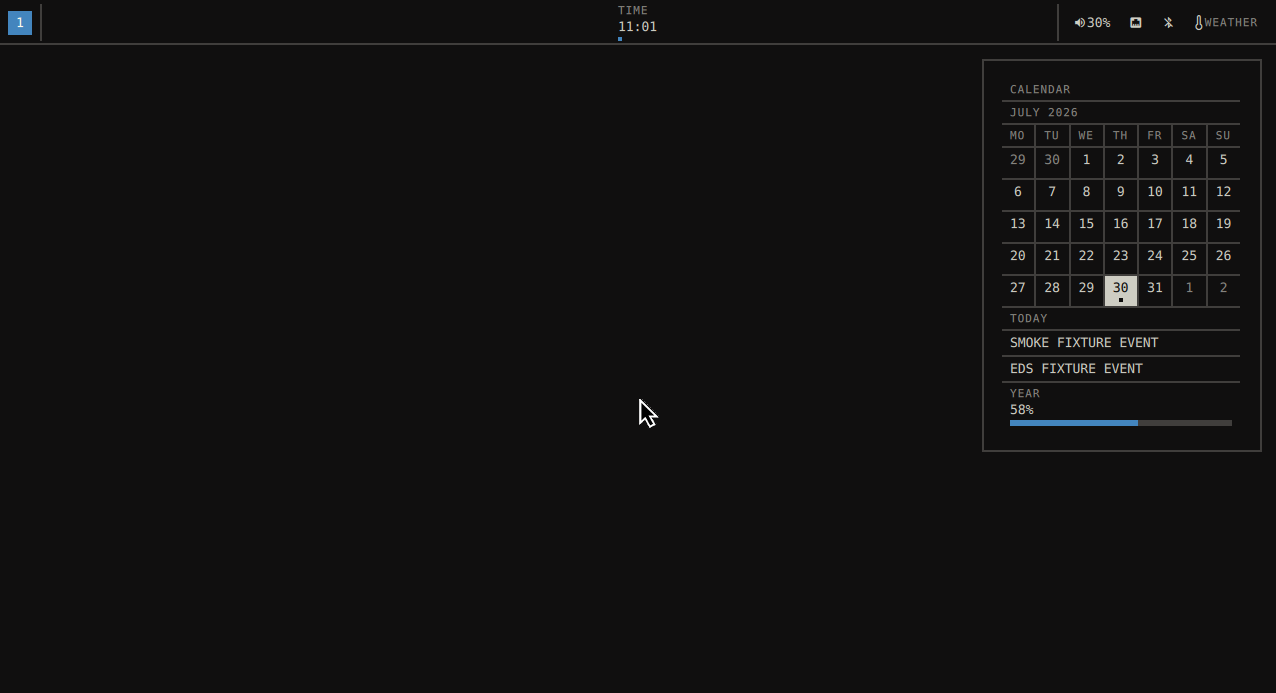
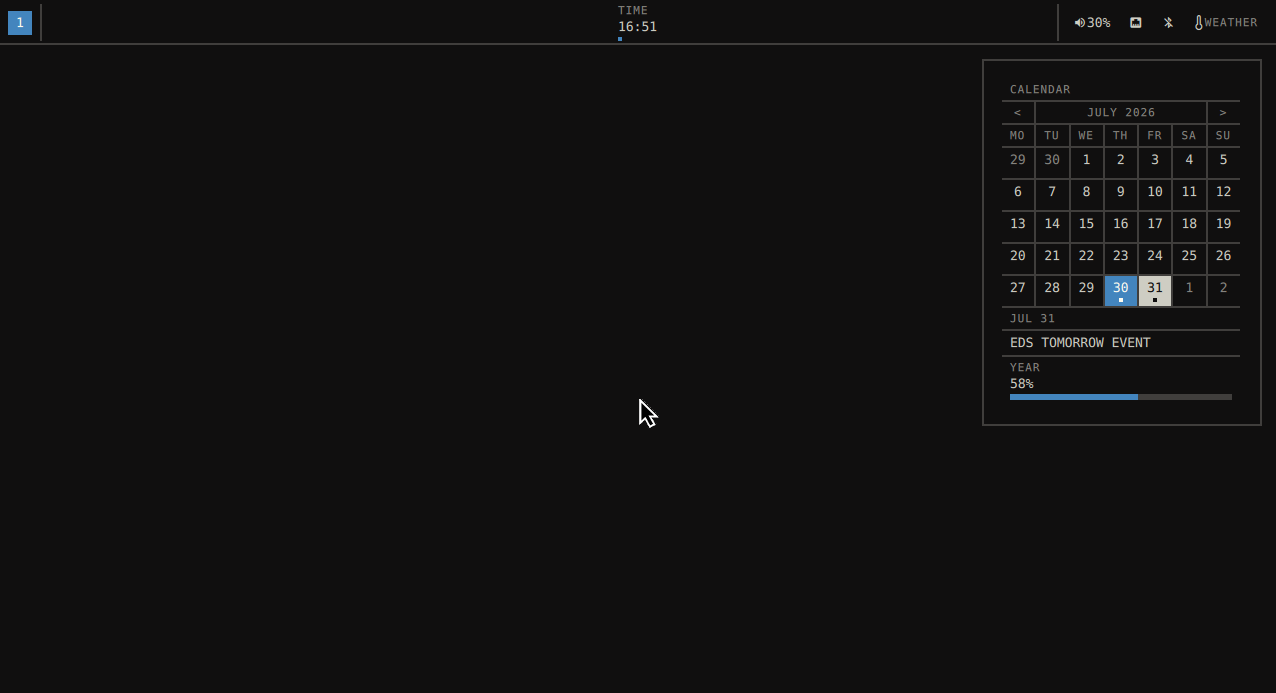
docs: cover m13 surfaces in usage/switchover and recapture screenshots

diff --git a/docs/USAGE.md b/docs/USAGE.md
@@ -68,11 +68,20 @@ with a console warning — never a crash.
   the exact same engine access as any built-in widget (`qs.Core`,
   `qs.Services`, `Process`, …). It is not a runtime sandbox.
 
+**Workspaces** — one cell per *visible* workspace, sorted by the backend's
+own per-output ordinal (`idx`; ids stay opaque strings, never parsed). A
+workspace renders only if it holds at least one window or is
+active/focused, so nine persistent named niri workspaces with two windows
+open show two or three cells, not nine (`shell/Bar/workspaces.js`).
+
 **Tray** — every real `org.kde.StatusNotifierItem` registered on the
 session bus (`Quickshell.Services.SystemTray`) renders as its own cell:
 left click activates it, middle click secondary-activates it, right click
-opens its `DBusMenu` if it has one. Past 4 visible items the rest collapse
-into one more cell (`+N`) that expands the row to reveal them all.
+opens its `DBusMenu` if it has one. Items whose SNI `ItemIsMenu` flag says
+activation-is-menu get the menu on left click too. The menu renders as a
+native-styled popup (quickshell's platform-menu path owns that widget
+outright), not a shell-themed surface. Past 4 visible items the rest
+collapse into one more cell (`+N`) that expands the row to reveal them all.
 
 **Indicators** — DND and idle-inhibit each render as their own glyph, only
 while the condition holds; the whole slot disappears when neither does.
@@ -82,8 +91,9 @@ reports screen recording as of 2026-07-29.
 **GitHub** — opt-in via `bar.layout` (add `"github"` to a region); polls one
 `gh api graphql` call every `github.intervalMs` (ms, default 300000) for the
 count of open PRs you authored and open issues assigned to you, rendered as
-a glyph + `N/M` meta cell. Click opens `github.com/notifications` via
-`xdg-open`. Honest states: `gh` missing from PATH hides the cell entirely;
+a glyph + `N/M` meta cell. Click toggles the GitHub panel anchored under
+the cell (see [Panels](#panels)) rather than jumping to the website. Honest
+states: `gh` missing from PATH hides the cell entirely;
 `gh` present but unauthenticated (its documented exit code 4) renders a dim
 `NO AUTH` cell; any other failure or unparsable output renders a dim `NO GH`
 cell — never stale or invented counts. The cell also stays hidden until the
@@ -93,6 +103,7 @@ first poll answers at all.
 qs ipc --any-display -p <store-path>/share/formalshell call tray status     # {"items":[…],"expanded":…}
 qs ipc --any-display -p <store-path>/share/formalshell call tray expand    # same action as clicking the "+N" cell
 qs ipc --any-display -p <store-path>/share/formalshell call tray collapse
+qs ipc --any-display -p <store-path>/share/formalshell call tray activate <id>   # same action as left-clicking the item's cell
 ```
 
 ## Theming
@@ -137,6 +148,21 @@ Wallpaper and theme are driven over the same IPC surface as everything else:
 qs ipc --any-display -p <store-path>/share/formalshell call wallpaper set /path/to/image.jpg
 qs ipc --any-display -p <store-path>/share/formalshell call theme mode toggle    # dark <-> light
 qs ipc --any-display -p <store-path>/share/formalshell call theme status         # {"wallpaper":…,"mode":…,"themeJsonPresent":…}
+```
+
+**Motion.** Transitions across the shell run off `Theme.motion` tokens
+(`docs/DESIGN.md` §4): 100ms for hover fills, 130ms for surface
+enter/exit, one ease-out curve, opacity plus a 6px translate only — no
+scale, no bounce, end states pixel-identical to the unanimated shell.
+Full-bleed accent/selection swaps (the ledger inversion, the focused
+workspace's fill) are states, not transitions, and stay instant.
+`motion.enabled: false` in `settings.json` zeroes every duration — the
+shell's reduced-motion switch, since Wayland has no
+`prefers-reduced-motion` to inherit:
+
+```jsonc
+// ~/.config/formalshell/settings.json
+{ "motion": { "enabled": false } }
 ```
 
 ## Menu
@@ -186,6 +212,15 @@ default entry (and its whole subtree) without needing to redeclare it:
 Each button becomes `system.custom.<i>` in the tree; `confirm: true` requires
 a second Enter on the row before the command runs (`CONFIRM <label>?`).
 
+**Wallpaper.** The root `WALLPAPER` node opens the [Picker](#picker) grid
+over `picker.directory`: its activation spawns the same self-targeting
+`qs ipc call picker summon` invocation the clipboard rows use, so the
+picker opens only after the menu surface has closed and never fights its
+keyboard-exclusive focus. The node is injected at tree-build time
+(`providers.js`'s `wallpaperEntry()` — static jsonc can't know the running
+shell's own path), but overrides address it by its `"wallpaper"` id like
+any declared node, including `"hidden": true`.
+
 **Calculator.** A root-menu query that parses as an arithmetic expression
 (`+ - * / % ^`, parentheses, unary minus, decimals — a real
 recursive-descent parser in `shell/Menu/calc.js`, never `eval`) leads the
@@ -199,7 +234,13 @@ Unicode dataset (`shell/Menu/emoji.json` — fully-qualified `emoji-test.txt`
 entries, Emoji 17.0; regenerate with `dev/gen-emoji.sh`, never edit by
 hand). Rows render the char plus its uppercase name; Enter copies the char
 via `wl-copy` and closes, and the clipboard history captures it like any
-other copy. From anywhere, the root trigger `:e <query>` narrows to the
+other copy. On top of the copy, the char is auto-typed into whatever window
+focus returns to: the menu surface closes first, then after a 150ms settle
+`wtype <char>` runs (the package wrapper bundles `wtype`, suffixed on PATH
+so an environment `wtype` can shadow it). `wtype` missing or the
+compositor lacking the virtual-keyboard protocol degrades to the copy that
+already happened — one console warning, no error surface. From anywhere,
+the root trigger `:e <query>` narrows to the
 same rows (`:e thumbs` → 👍); a bare `:e` browses the head of the list.
 
 **Nix package runner.** `menu summon nix` (or the `:nix <query>` root
@@ -211,11 +252,17 @@ a throwaway terminal (`ghostty -e sh -c 'nix run nixpkgs#<attr>; read'` —
 single dim `NO NIX` row instead.
 
 **IPC.** Every route is summonable for direct compositor keybinds:
-`toggle(route)` (open if closed/close if open), `summon(route)` (always
-open), `close()`, `refresh()` (force a re-read of default+user jsonc —
+`toggle()` (deliberately no-argument — root summon if closed, close if
+open; the verb to bind a bare menu key to, after a compositor keybind
+passing no route to a route-taking toggle was rejected by IPC arity
+checking before the handler ever ran), `summon(route)` (always open),
+`close()`, `refresh()` (force a re-read of default+user jsonc —
 `settings.json` is already watched live, this is a manual fallback for an
-editor save an fs watcher missed), `ping()`. `route` is a node id
-(`"system"`) or alias, or `""` for root. Bind it directly in niri:
+editor save an fs watcher missed), `status()` (`{isOpen, level}`, for
+headless assertion), `ping()`. `route` is a node id
+(`"system"`) or alias, or `""` for root. An absent optional
+`~/.config/formalshell/menu.jsonc` logs at most one line per path change,
+never a warning per internal retry. Bind it directly in niri:
 
 ```kdl
 binds {
@@ -329,7 +376,7 @@ binds {
 
 ## Panels
 
-Seven per-widget popouts share one component, `shell/Components/Panel.qml` — a
+Eight per-widget popouts share one component, `shell/Components/Panel.qml` — a
 ledger-table popout (header `MetaLabel` row, rows sharing hairline rules,
 `WlrLayershell` top layer, keyboard `OnDemand`, closes on Escape and on
 click-outside) anchored under the bar cell that opened it, or falling back to
@@ -347,6 +394,7 @@ service wrapper, the same pattern `AudioPanel` establishes for the rest:
 | `power`      | `Quickshell.Services.UPower`                | `Battery.qml`        |
 | `weather`    | `LocationService` + open-meteo              | `WeatherWidget.qml`  |
 | `media`      | `Quickshell.Services.Mpris`                 | `NowPlaying.qml`     |
+| `github`     | one `gh api graphql` poll (shared with the bar cell) | `GithubWidget.qml` |
 
 Every bar cell shows the Omarchy-style panel-open accent dot while its panel
 is open. `AudioPanel` lists Pipewire output nodes then input nodes as
@@ -367,7 +415,16 @@ showing a stub `0%`. `WeatherPanel` shows current conditions as a header row
 and a forecast ledger (one row per open-meteo daily period, glyph + weekday
 + high/low mono temps pinned right), falling back to an honest `NO LOCATION`
 or `UNAVAILABLE` cell (with openmeteo.js's specific failure code) rather
-than a stale or invented forecast.
+than a stale or invented forecast. `GithubPanel` lists open PRs you
+authored and open issues assigned to you as two ledger sections
+(`PULL REQUESTS / n`, `ISSUES / n` — the first 15 of each), every row a
+title plus dimmed repo slug; clicking a row opens its URL via `xdg-open`
+and closes the panel. The `gh api graphql` poll lives in the panel, not
+the widget, so `panel open github` renders honestly even when `bar.layout`
+never names the github widget (the widget stays the opt-in switch for
+*background* polling; opening the panel always re-polls). Its honest
+states mirror the bar cell's: dim `NO GH` / `NO AUTH` cells, `LOADING`
+before the first answer, a dim `NONE` row under an empty section.
 
 **IPC** (`target: "panel"`, a documented spec addendum — see
 `docs/superpowers/plans/2026-07-28-m6-clipboard-and-panels.md`'s header note
@@ -378,7 +435,7 @@ keybinds and no way to be verified headlessly):
 qs ipc --any-display -p <store-path>/share/formalshell call panel open audio
 qs ipc --any-display -p <store-path>/share/formalshell call panel toggle network
 qs ipc --any-display -p <store-path>/share/formalshell call panel close        # closes whichever panel is open
-qs ipc --any-display -p <store-path>/share/formalshell call panel state       # "" | "audio" | "calendar" | "network" | "bluetooth" | "power" | "weather"
+qs ipc --any-display -p <store-path>/share/formalshell call panel state       # "" | "audio" | "calendar" | "network" | "bluetooth" | "power" | "weather" | "media" | "github"
 ```
 
 An unknown panel name returns `error: unknown panel '<name>'` rather than a
@@ -491,9 +548,25 @@ outside that subset (`BYSETPOS`, `BYMONTHDAY`, ordinal `BYDAY` like `1MO`,
 honest under-expansion, never a guessed instance (`shell/Calendar/ics.js`'s
 header documents the full boundary).
 
-Days carrying an event get a small accent dot in the grid, and a `TODAY`
-ledger section below lists today's events by summary (or a single dim
-`NO EVENTS` row).
+Days carrying an event get a small accent dot in the grid, and a dated
+ledger section below lists the selected day's events by summary (or a
+single dim `NO EVENTS` row).
+
+**Day selection.** Every day cell is clickable (hover-cursor chrome):
+clicking selects that day, the events ledger lists that day's events, and
+its meta header reads `TODAY` for today or the uppercase date (`JUL 31`)
+otherwise. The selected cell inverts (the ledger selection state); today's
+cell keeps its accent marker — both visible at once when they differ.
+Clicking an adjacent-month padding day selects it and aligns the view to
+its month. Month navigation (`<`/`>`) resets selection to today rather
+than clamping the day-of-month, and opening the panel resets both the view
+month and the selection to today. The same action is scriptable
+(`target: "calendar"`, additive next to `panel open calendar`):
+
+```bash
+qs ipc --any-display -p <store-path>/share/formalshell call calendar select 2026-07-31   # strict YYYY-MM-DD, invalid dates rejected
+qs ipc --any-display -p <store-path>/share/formalshell call calendar status              # {"open":…,"selected":…,"today":…,"view":…}
+```
 
 ## Now playing
 
@@ -718,18 +791,30 @@ capture) AND on the clipboard as `image/png` via `wl-copy`, and a
 `SCREENSHOT SAVED` notification with the path fires through the shell's own
 notification stack — visible feedback with no bar surface involved.
 
+`region`'s slurp overlay is styled so pressing the bind visibly changes
+the screen immediately: a dim theme-background wash, the selection border
+in the theme accent at `Theme.borderWidth`, a transparent selection
+rectangle, and a live dimension readout — colors resolved at call time, so
+they track the current matugen palette. Pressing Escape (or
+right-clicking) inside slurp is a cancel, not an error: no toast, no
+`lastError`. A watchdog auto-cancels an unanswered region selection after
+`screenshot.timeoutSeconds` (default 90) with a `SCREENSHOT CANCELLED`
+notification, and the `cancel` verb does the same on demand — no more
+invisible slurp sitting stuck for an hour.
+
 The IPC reply is the destination path the capture is writing toward, not a
 completion signal: `qs ipc call` replies synchronously while `slurp` blocks
-on user interaction indefinitely. A runtime failure (slurp cancelled, grim
-error) fires a `SCREENSHOT FAILED` notification and lands in `status()`'s
-`lastError` — loud and queryable, never a silent no-op.
+on user interaction indefinitely. A runtime failure (grim error, slurp
+failing to start) fires a `SCREENSHOT FAILED` notification and lands in
+`status()`'s `lastError` — loud and queryable, never a silent no-op.
 
 **IPC** (`target: "screenshot"`):
 
 ```bash
 qs ipc --any-display -p <store-path>/share/formalshell call screenshot full     # replies with the destination path
 qs ipc --any-display -p <store-path>/share/formalshell call screenshot region   # slurp rectangle, then same pipeline
-qs ipc --any-display -p <store-path>/share/formalshell call screenshot status   # {"capturing":…,"lastPath":…,"lastError":…}
+qs ipc --any-display -p <store-path>/share/formalshell call screenshot cancel   # kill an in-flight capture, clear state
+qs ipc --any-display -p <store-path>/share/formalshell call screenshot status   # {"capturing":…,"lastPath":…,"lastError":…,"lastCancelled":…}
 ```
 
 Bind both in niri, same pattern as every other target:

diff --git a/docs/SWITCHOVER.md b/docs/SWITCHOVER.md
@@ -60,6 +60,32 @@ feeding EDS — has never run anywhere, since the VM's evidence is EDS's
 local `system-calendar` only. See §2's resolved bullets and the seven new
 parity-table rows.
 
+**Update, 2026-07-30 (M13):** the e1504g daily-drive trial started, and its
+first hours of feedback are fixed, per
+`docs/superpowers/plans/2026-07-30-m13-trial-feedback-fixes.md`: workspaces
+sort by the backend's `idx` and hide empty non-active ones; tray cells
+vertically center, left/middle click activate/secondary-activate, right
+click (or left click on an `ItemIsMenu` item) opens the item's DBusMenu as
+a native popup; the github widget opens a PR/issue list panel instead of
+xdg-open; calendar days are clickable with a `calendar select` IPC verb;
+the menu gains a root `WALLPAPER` node (opens the picker grid), an
+arity-proof no-argument `menu toggle` verb (the win+space keybind
+regression), and quieted absent-`menu.jsonc` warnings; picking an emoji
+auto-types it via `wtype` on top of the copy; `screenshot region` gets a
+themed slurp overlay, a `screenshot.timeoutSeconds` watchdog (the host's
+invisible hour-stuck slurp), and a `cancel` verb; and a motion pass adds
+90-140ms opacity+translate transitions across menu/panels/OSD/toasts
+behind `Theme.motion` tokens and a `motion.enabled` settings switch
+(DESIGN.md §4 rewritten). All VM-only verified (mac VM rig; e1504g is
+mid-trial and per the plan's own constraint was never touched). Host-trial
+territory, recorded here rather than faked: slurp's visual overlay under a
+real drag (no synthetic pointer exists in the rig), real applications'
+tray DBusMenus opening on click (the rig asserts the Activate path against
+its SNI stub; menu-open would wedge a headless run), and `wtype` really
+typing into a refocused window (the rig asserts the spawn via an
+argv-logging shim; the nested session has no focused client to receive
+it).
+
 ## 1. Parity table
 
 Evidence sources: the e1504g sweep at commit `1300b02`
@@ -77,22 +103,24 @@ hardware.
 | Surface | Status | Evidence |
 | --- | --- | --- |
 | Bar | Hardware-verified | e1504g @ 1300b02, `artifacts/e1504g/plain.png`; g815 HEAD sweep @ 52e2db0, `artifacts/g815-head/plain.png` (`docs/screenshots/bar-niri.png`) — real BAT/Wi-Fi/Bluetooth cells the VM cannot produce, and confirms the `ca56dfc` padding fix (symmetric insets, no left/top-only gutter) on real hardware |
-| Bar: SNI tray | VM-only | mac VM rig @ bd20ef6, `dev/smoke-niri.sh --tray`, `docs/screenshots/tray-niri.png` — six real `dev/sni-stub.py` StatusNotifierItems collapse to three pinned cells plus a "+3" overflow drawer, which expands to "−3" over the same `tray expand` IPC call the overflow cell's own click takes; not yet re-swept on a real host |
+| Bar: workspaces order + hide-empty | VM-only | M13 (3c7d6fd): cells sort by the backend's per-output `idx` ordinal and a workspace renders only when occupied or active/focused (`shell/Bar/workspaces.js`, unit-covered in `tests/tst_workspaces_model.qml` over fake workspace+window models). Every plain VM smoke screenshot shows the nested session's occupied/focused workspaces only; the shaping host context — nine persistent named niri workspaces, which DMS hid when empty — is exactly what the e1504g trial itself verifies |
+| Bar: SNI tray | VM-only | mac VM rig @ bd20ef6, `dev/smoke-niri.sh --tray`, `docs/screenshots/tray-niri.png` (recaptured 2026-07-30 with M13's vertically centered cells) — six real `dev/sni-stub.py` StatusNotifierItems collapse to three pinned cells plus a "+3" overflow drawer, which expands to "−3" over the same `tray expand` IPC call the overflow cell's own click takes. M13 (783275d) added item interactions: the `--tray` drive calls `tray activate` and asserts the stub's `--activate-file` recorded a real `Activate(x, y)` over the session bus; DBusMenu *open* on a real click renders a platform QMenu no headless run can dismiss, so that leg — and any real application's menu contents — is host-trial territory. Not yet re-swept on a real host |
 | Bar: indicators slot | VM-only | mac VM rig @ bd20ef6, `dev/smoke-niri.sh --notify`, `docs/screenshots/indicators-niri.png` — the DND bell-off glyph appears after `notifications setDnd true` over IPC; idle-inhibit shares the same widget and reactivity fix but has no dedicated smoke screenshot yet; not yet re-swept on a real host |
 | Bar: settings-driven layout + custom modules | VM-only | mac VM rig @ bd20ef6, `dev/smoke-niri.sh --bar-layout` — a reordered left region led by six `bar.modules` entries: one happy-path `command` module (`CMD 42`), four exercising each of `CommandModule.qml`'s failure paths (all render the honest `MODULE ERROR` cell), and one `qml` module (`QML OK`); every other smoke mode's own screenshot, carrying no `bar` config, keeps proving the no-config fallback renders today's exact default arrangement; not yet re-swept on a real host. `docs/screenshots/bar-layout-niri.png` was recaptured 2026-07-30 with the M12 `github` cell heading the region, which pushes the `qml` module past the visible clip at the VM's 1276px width — its rendering stays proven by the bd20ef6 capture and `tests/tst_bar_layout.qml` |
-| Bar: github widget | VM-only | mac VM rig @ 8dfbe55, `dev/smoke-niri.sh --bar-layout` with a PATH-shimmed `gh` returning canned counts — `docs/screenshots/bar-layout-niri.png` (recaptured 2026-07-30) shows the octicon + `3/2` cell leading the custom left region; every default-layout mode's screenshot keeps proving the widget is absent without opt-in. Real `gh` auth states (`NO AUTH`, live counts) are host-trial territory |
+| Bar: github widget + panel | VM-only | mac VM rig @ 8dfbe55, `dev/smoke-niri.sh --bar-layout` with a PATH-shimmed `gh` returning canned counts — `docs/screenshots/bar-layout-niri.png` (recaptured 2026-07-30) shows the octicon + `3/2` cell leading the custom left region; every default-layout mode's screenshot keeps proving the widget is absent without opt-in. M13 (fb65ee2) replaced the cell's xdg-open jump with a GithubPanel (two ledger sections, title + dimmed repo rows, row click opens the URL): `dev/smoke-niri.sh --panel github` drives `panel open github` against the extended gh shim and screenshots both sections' canned rows. Real `gh` auth states (`NO AUTH`, live counts) and real row-click xdg-open remain host-trial territory |
 | Menu | Hardware-verified | e1504g @ 1300b02, `artifacts/e1504g/menu.png`; g815 HEAD sweep @ 52e2db0, `artifacts/g815-head/menu.png` (`docs/screenshots/menu-niri.png`) |
 | Panel: audio | Hardware-verified, fix now visually confirmed | e1504g @ 1300b02 found the percentage-lost-behind-elision defect (`artifacts/e1504g/panel-audio.png`); fixed at `4aad1d6`. **Closed:** the g815 HEAD sweep @ 52e2db0 re-screenshotted it against real long device names (`GB206 High Definition Audio Controll.`, `800 Series Chipset Family Audio Cont.`) at plausible non-1% percentages — `artifacts/g815-head/panel-audio.png` (`docs/screenshots/panels-niri.png`) |
 | Panel: network | Hardware-verified | e1504g @ 1300b02, `artifacts/e1504g/panel-network.png`; g815 HEAD sweep @ 52e2db0, `artifacts/g815-head/panel-network.png` — real SSID `kaiiserni` at 62% (the 0..1-scaling bug stayed fixed on a second real host) |
 | Panel: bluetooth | Hardware-verified, fix now visually confirmed | e1504g @ 1300b02 found the adapter-state title-case defect (`artifacts/e1504g/panel-bluetooth.png`); fixed at `4aad1d6`. **Closed:** the g815 HEAD sweep @ 52e2db0 re-screenshotted it against a real adapter and three real paired devices (`MX Master 3S M`, `CMF Headphone Pro`, `AirPods Pro`), status correctly uppercase `ENABLED` — `artifacts/g815-head/panel-bluetooth.png` |
 | Panel: power | Hardware-verified | e1504g @ 1300b02, `artifacts/e1504g/panel-power.png`; g815 HEAD sweep @ 52e2db0, `artifacts/g815-head/panel-power.png` — real battery 79%, uppercase `PENDING CHARGE`, correct active-profile highlight |
-| Panel: calendar | Hardware-verified (ics path) | e1504g @ 1300b02, `artifacts/e1504g/panel-calendar.png`; g815 HEAD sweep @ 52e2db0, `artifacts/g815-head/panel-calendar.png` — real month grid, local-.ics fixture event. `docs/screenshots/calendar-niri.png` was recaptured 2026-07-30 from the mac VM to show the M12 EDS backend alongside it (both fixture events under `TODAY`) |
-| Calendar: EDS/GOA events | VM-only | mac VM rig @ 57efc97, `dev/smoke-niri.sh --panel calendar` — the rig seeds one real VEVENT over `formalshell-eds seed` into EDS's `system-calendar` on the run's private session bus, the service reads it back through `formalshell-eds events`, and the screenshot shows both the ics and the EDS fixture events under `TODAY` (`docs/screenshots/calendar-niri.png`, recaptured 2026-07-30). The GOA OAuth path (a real online account feeding EDS) has never run anywhere — the VM has no GOA account, so that leg is real-host-trial territory |
+| Panel: calendar | Hardware-verified (ics path) | e1504g @ 1300b02, `artifacts/e1504g/panel-calendar.png`; g815 HEAD sweep @ 52e2db0, `artifacts/g815-head/panel-calendar.png` — real month grid, local-.ics fixture event. `docs/screenshots/calendar-niri.png` was recaptured 2026-07-30 (M13) from the mac VM: tomorrow's cell inverted with its EDS fixture event under the `JUL 31` dated header, today's cell keeping its accent fill |
+| Calendar: EDS/GOA events | VM-only | mac VM rig @ 57efc97, `dev/smoke-niri.sh --panel calendar` — the rig seeds one real VEVENT over `formalshell-eds seed` into EDS's `system-calendar` on the run's private session bus, the service reads it back through `formalshell-eds events`, and the run's screenshot showed both the ics and the EDS fixture events under `TODAY` (the published `docs/screenshots/calendar-niri.png` has since been recaptured with M13's selected-day state, tomorrow's EDS fixture under its dated header — same rig, same backends). The GOA OAuth path (a real online account feeding EDS) has never run anywhere — the VM has no GOA account, so that leg is real-host-trial territory |
+| Calendar: day selection | VM-only | M13 (2b23b4c), `dev/smoke-niri.sh --panel calendar` — the drive seeds a second EDS VEVENT dated tomorrow, calls `calendar select <tomorrow>` after the open, asserts `calendar status` reports tomorrow selected, and the screenshot (`docs/screenshots/calendar-niri.png`, recaptured 2026-07-30) shows tomorrow's cell inverted with its fixture event under the dated meta header while today keeps its accent marker |
 | Calendar: RRULE expansion | VM-only | `tests/tst_calendar_ics.qml` @ aa3c61a — bounded expansion of FREQ=DAILY/WEEKLY/MONTHLY/YEARLY with INTERVAL/COUNT/UNTIL/weekly-BYDAY/EXDATE, unsupported rules falling back to a single occurrence. Pure-JS logic, so the headless tests are the whole evidence; there is nothing to screenshot |
 | Menu: calculator | VM-only | mac VM rig @ 61da420, `dev/smoke-niri.sh --menu` — `debug query "2+2*3"` returns the `= 8` CALC row as the first ranked result (the run's `calc-query.json` artifact); parser edge cases in `tests/tst_menu_calc.qml` |
 | Menu: emoji | VM-only | mac VM rig @ 913d9a3, `dev/smoke-niri.sh --menu` — `debug query ":e thumbs"` returns the 👍 THUMBS UP row from the vendored `emoji.json` (the run's `emoji-query.json` artifact); dataset load + search in `tests/tst_menu_emoji.qml` |
 | Menu: nix runner | VM-only | mac VM rig @ 76757d5, `dev/smoke-niri.sh --menu` — two-pass `debug query ":nix hello"` against the PATH-shimmed `nix` returns the canned `hello` attr row after the 500ms debounce (the run's `nix-query.json` artifact). Real `nix search`/`ghostty` spawn behaviour is host-trial territory |
-| Screenshot IPC | VM-only | mac VM rig @ fd56a5f, `dev/smoke-niri.sh --screenshot` — `screenshot full`'s replied path exists as a valid PNG and `wl-paste --list-types` offers `image/png` in-session; `region`'s slurp leg needs a human dragging a rectangle, so it has no headless evidence |
+| Screenshot IPC | VM-only | mac VM rig @ fd56a5f, `dev/smoke-niri.sh --screenshot` — `screenshot full`'s replied path exists as a valid PNG and `wl-paste --list-types` offers `image/png` in-session. M13 (d2d55a5) added the region watchdog and cancel: the extended drive starts `screenshot region`, round-trips `status` through `capturing:true`, calls `cancel`, and confirms cancelled-not-stuck state plus a still-working `full` afterward in the same session. The themed slurp overlay under a real drag stays host-trial — no synthetic pointer exists in the rig |
 | Panel: weather | **Unverified** | Never included in any real-hardware sweep (neither e1504g's 18-mode run, the older g815 run, nor the 2026-07-29 g815 HEAD resweep drove `--panel weather`); only ad hoc dev-loop crops exist in `artifacts/` (`weather-crop*.png`), not a hardware or a repeatable VM smoke run |
 | Notifications | Hardware-verified | e1504g @ 1300b02, `artifacts/e1504g/notify.png`, `notify-center.png`; g815 HEAD sweep @ 52e2db0, `artifacts/g815-head/notify.png`, `notify-center.png` (`docs/screenshots/notifications-niri.png`) |
 | OSD | Hardware-verified, fix now confirmed on real PipeWire | e1504g @ 1300b02 found the auto-show reactivity defect (`osd-volume.png` never updated on an external `wpctl set-volume`); manual volume/brightness legs passed (`osd-manual.png`, `osd-brightness.png`). Fixed at `4aad1d6` (wrong signal name, `onVolumeChanged` vs `onVolumesChanged`). **Closed:** the g815 HEAD sweep @ 52e2db0 fired a real `wpctl set-volume @DEFAULT_AUDIO_SINK@ 30%` against a real PipeWire graph and the OSD auto-showed correctly — `artifacts/g815-head/osd-auto.png` (`docs/screenshots/osd-niri.png`), brightness leg cross-checked against the real `nvidia_wmi_ec_backlight` (100/100) |

diff --git a/README.md b/README.md
@@ -12,9 +12,10 @@ modules so a consuming config needs almost no glue.
 
 ![FormalShell bar on niri](docs/screenshots/bar-niri.png)
 
-**Status:** pre-alpha. M1 through M12 (walking skeleton through the greeter
+**Status:** pre-alpha. M1 through M13 (walking skeleton through the greeter
 and NixOS modules, bar completeness, screensaver effect gifs, DMS parity
-gaps + EDS/GOA calendar events) are complete, behind CI (qmllint + headless
+gaps + EDS/GOA calendar events, and the first e1504g daily-drive trial's
+feedback fixes) are complete, behind CI (qmllint + headless
 qml-tests) and nested-compositor smoke loops for every change. See
 `docs/SWITCHOVER.md` for the current hardware-vs-VM verification parity
 table before switching a real machine over, and
@@ -29,10 +30,11 @@ session, and tears it down — safe to run against a live host by design.
 Most were recaptured 2026-07-29 from **g815**, the owner's real niri
 machine, showing genuinely populated hardware (real battery, Wi-Fi,
 Bluetooth, audio, backlight) rather than the VM's empty state. The greeter
-shot, the M10 bar shots (tray, indicators, custom modules), and the two
-M12 recaptures (calendar with its EDS fixture event, custom modules with
-the github cell) are VM-sourced — no greetd module on g815 yet, and g815
-hasn't been re-swept since M10 landed. Details on what each shot proves are
+shot, the M10 bar shots (tray, indicators, custom modules), and the three
+M13 recaptures (tray with vertically centered cells, custom modules with
+the github cell and the idx-sorted workspace region, calendar with a
+selected day's inverted cell) are VM-sourced — no greetd module on g815
+yet, and g815 hasn't been re-swept since M10 landed. Details on what each shot proves are
 in `CLAUDE.md`'s verification loop section (the `dev/smoke-niri.sh` flag
 each was captured with) and git history.
 
@@ -61,26 +63,30 @@ GIFs (`dev/smoke-niri.sh --screensaver-gif`, `CLAUDE.md`):
 Full per-surface reference (config keys, IPC targets, keybind examples) is
 in **[`docs/USAGE.md`](docs/USAGE.md)**. In brief:
 
-- **Bar** — three regions (left/center/right): workspaces, active window, an
-  SNI tray with a grouped overflow drawer, DND/idle-inhibit indicators,
-  clock, battery, audio, network/Bluetooth, weather, now playing, an opt-in
-  GitHub PR/issue counter — fully reorderable from `settings.json`, plus
-  custom `command` and `qml` widget modules.
+- **Bar** — three regions (left/center/right): workspaces (idx-sorted,
+  empty ones hidden), active window, an SNI tray with a grouped overflow
+  drawer and click-through to item activation and DBus menus,
+  DND/idle-inhibit indicators, clock, battery, audio, network/Bluetooth,
+  weather, now playing, an opt-in GitHub PR/issue counter — fully
+  reorderable from `settings.json`, plus custom `command` and `qml` widget
+  modules.
 - **Menu** — one fuzzy-searchable, keyboard-driven surface doubling as app
   launcher, system/power menu, and a `select`/`input` dmenu replacement —
-  with an inline calculator row, an emoji picker (`:e`), and a nixpkgs
-  package runner (`:nix`) built in as routes.
+  with an inline calculator row, an emoji picker (`:e`) that copies AND
+  auto-types the pick, a nixpkgs package runner (`:nix`), and a wallpaper
+  entry opening the picker grid built in as routes.
 - **Notifications** — a mako-replacement stack: freedesktop server,
   independent card toasts, a summonable history center, a narrow DND bypass.
 - **OSD** — one jitter-free bottom-center card for volume, brightness, and
   media.
-- **Panels** — seven per-widget popouts (audio, calendar, network,
-  bluetooth, power, weather, media) sharing one component and one IPC
-  target.
+- **Panels** — eight per-widget popouts (audio, calendar, network,
+  bluetooth, power, weather, media, github) sharing one component and one
+  IPC target.
 - **Clipboard** — capped, deduplicated history surfaced through the menu.
-- **Calendar** — month grid with a year/life-progress bar and events from
-  local `.ics` files and EDS/GNOME Online Accounts (via the
-  `formalshell-eds` companion CLI), with bounded RRULE expansion.
+- **Calendar** — month grid with clickable day selection, a year/life-
+  progress bar, and events from local `.ics` files and EDS/GNOME Online
+  Accounts (via the `formalshell-eds` companion CLI), with bounded RRULE
+  expansion.
 - **Now playing** — an MPRIS-backed bar cell and panel, with optional Apple
   Music animated album art.
 - **Lock screen** — a real `WlSessionLock` + PAM, with the design's one
@@ -89,8 +95,12 @@ in **[`docs/USAGE.md`](docs/USAGE.md)**. In brief:
   convergence effects.
 - **Picker** — a ledger-grid wallpaper/image selector, also usable as a
   generic image-select IPC surface.
-- **Screenshots** — a `screenshot full`/`region` IPC target wrapping
-  grim/slurp: file, clipboard, and a notification in one call.
+- **Screenshots** — a `screenshot full`/`region`/`cancel` IPC target
+  wrapping grim/slurp: file, clipboard, and a notification in one call,
+  with a themed selection overlay and a stuck-selection watchdog.
+- **Motion** — fast, subtle, interruptible transitions (90-140ms, opacity
+  plus a small translate, one ease-out curve), off entirely with
+  `motion.enabled: false`.
 - **Greeter** — a greetd session rendering as the lock screen's visual twin,
   with real PAM authentication.
 - **Theming** — wallpaper-driven matugen colors recolor every bar token and
